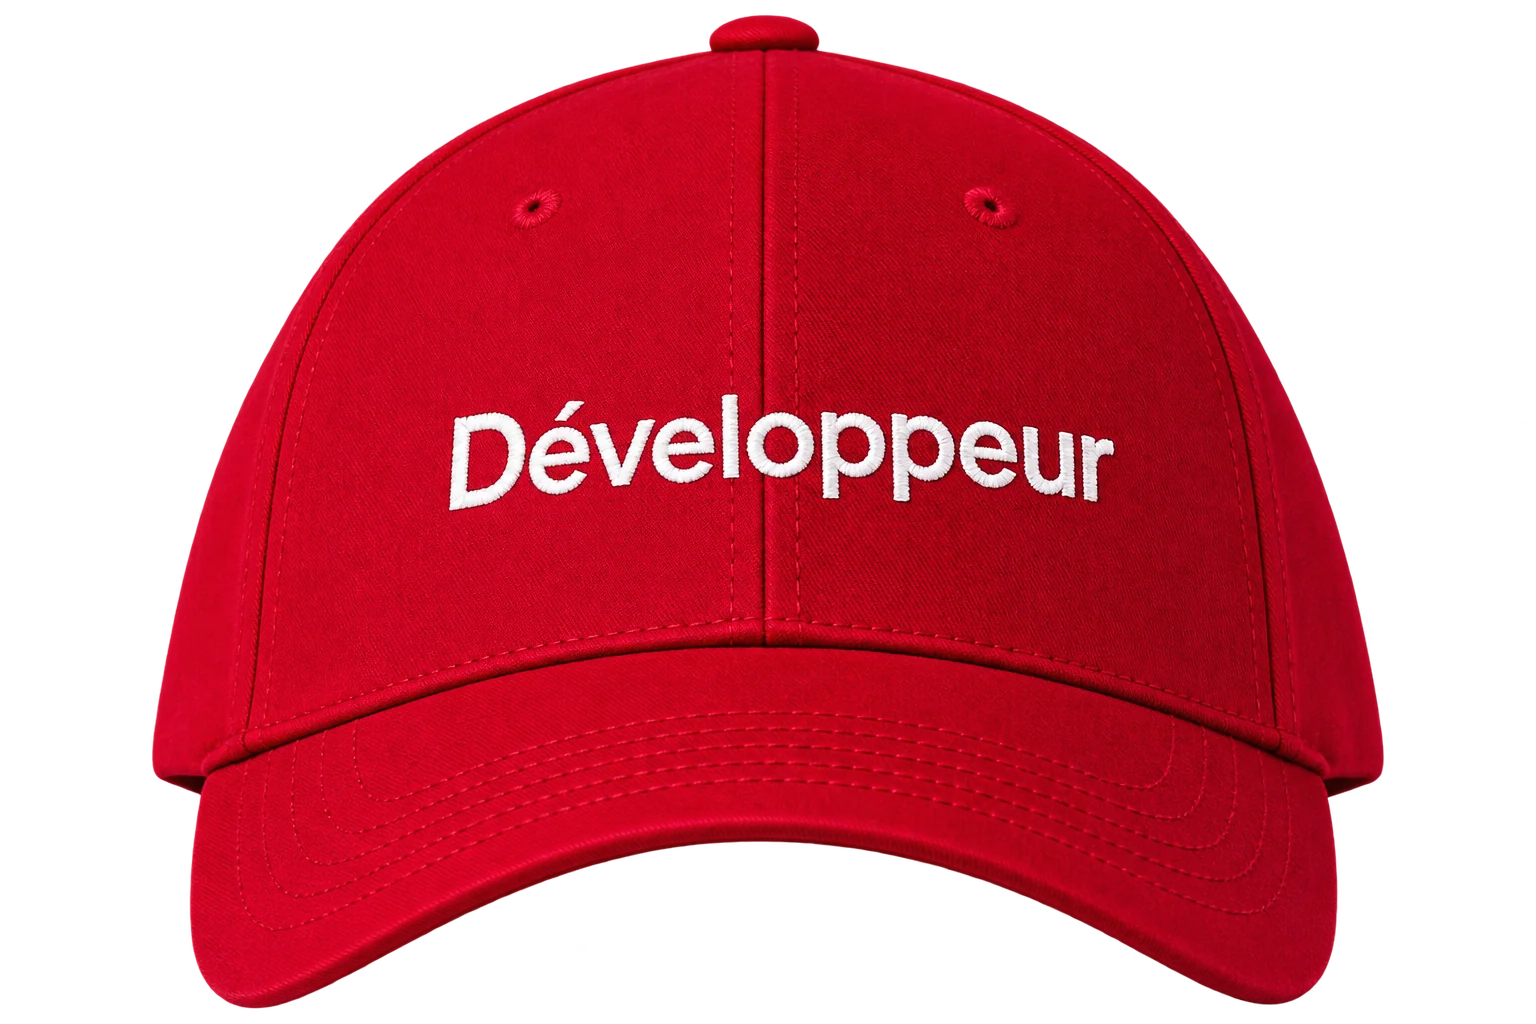
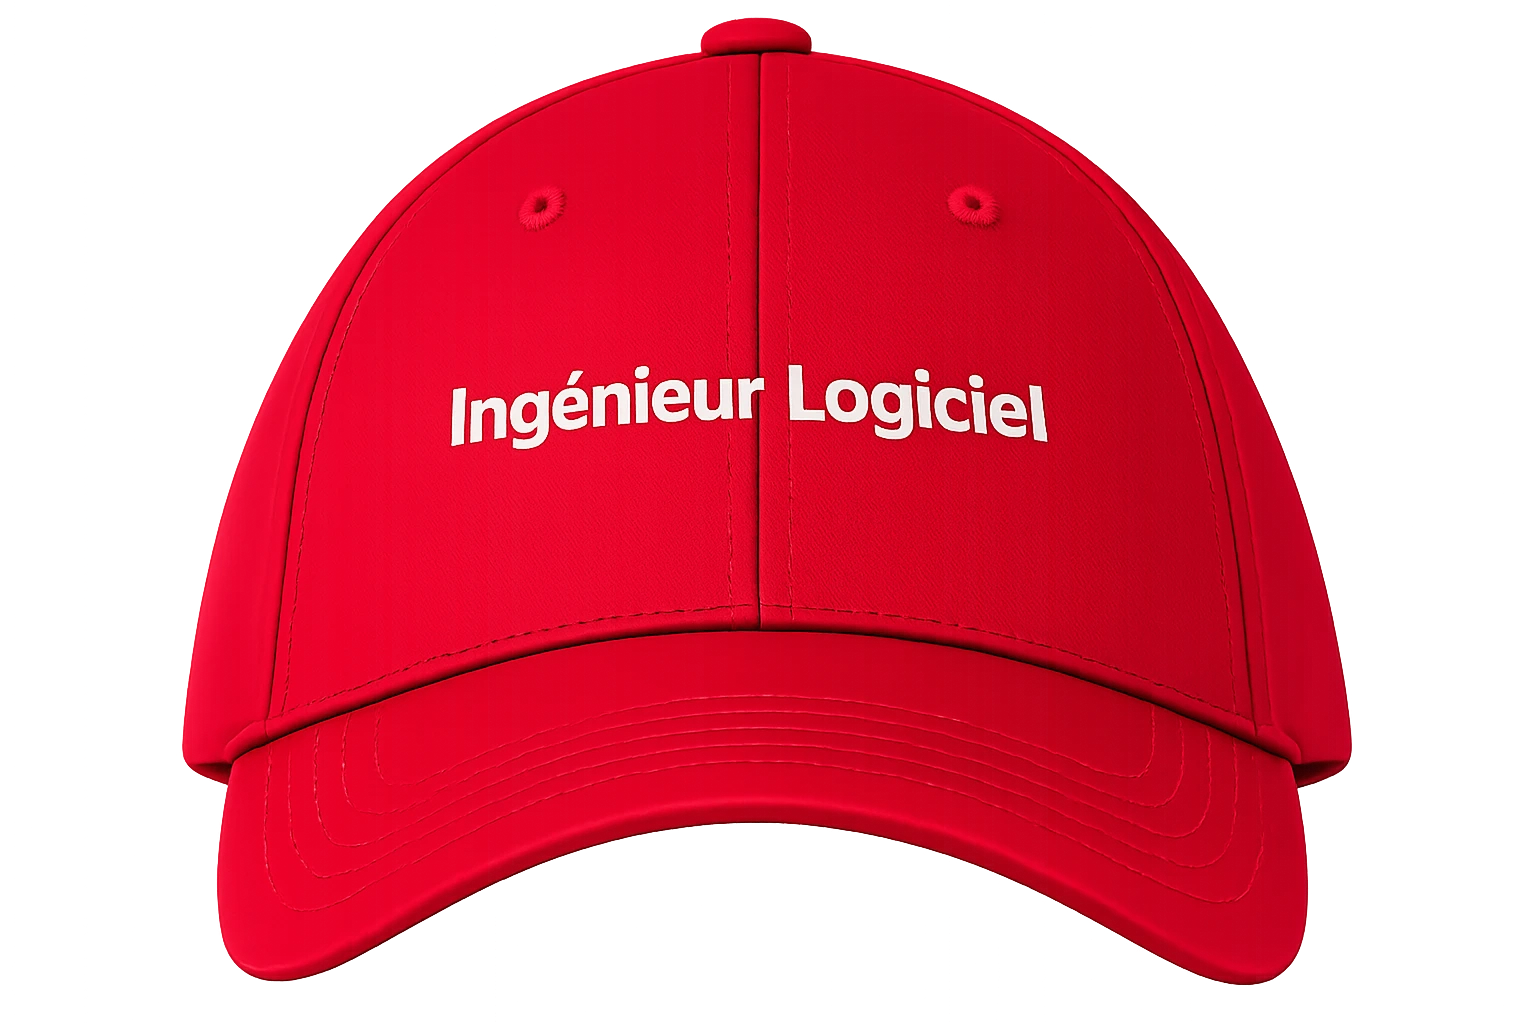
fix: re-encode the hero portraits at quality 92, wire the language caps
The cap embroidery was mushy in the hero. That was my compression, not the
sources: quality 82 took 1.7 MB PNGs down to ~47 KB, a 36x reduction, and fine
embroidery is the first detail such a ratio destroys. Re-encoded at 92, the five
portraits land at 94-108 KB, still an order of magnitude under the PNGs. The
source for the English data portrait was recovered from git, having been deleted
once converted.

The agro French portrait is untouched: it predates this session and has no PNG
source, so it stays at its original 42 KB.

The three remaining caps go in, plus the English data cap re-encoded from the
2.4 MB PNG it replaces. Each language now gets its own cap in the rotation.

A correction worth recording: I twice reported these caps as having a coloured
halo baked onto a dark background and asked for them to be regenerated. They
never did. All four measure 44-50% transparent pixels -- they were properly cut
out from the start. The image viewer I read them through flattens transparency
onto a dark ground, which turns a feathered cutout edge into what looks like a
glow. Trust the alpha channel, not the preview.

diff --git a/app/globals.css b/app/globals.css
@@ -1245,7 +1245,7 @@ a.project-tile:hover .project-art > span { transform: scale(1.08) rotate(-3deg);
 .cv-heading h2 { color: #f8f5ed; }
 .cv-heading .eyebrow { color: rgba(255, 255, 255, 0.48); }
 .cv-grid { display: grid; grid-template-columns: repeat(3, 1fr); border-top: 1px solid var(--line-dark); border-left: 1px solid var(--line-dark); }
-.cv-card { position: relative; min-height: 390px; padding: 30px; border-right: 1px solid var(--line-dark); border-bottom: 1px solid var(--line-dark); }
+.cv-card { position: relative; display: flex; flex-direction: column; min-height: 390px; padding: 30px; border-right: 1px solid var(--line-dark); border-bottom: 1px solid var(--line-dark); }
 .cv-card::after { position: absolute; right: 0; bottom: 0; width: 0; height: 3px; content: ""; background: var(--gold-bright); transition: width 350ms ease; }
 .cv-card:hover::after { width: 100%; }
 .cv-number { color: rgba(255, 255, 255, 0.58); font-size: 10px; letter-spacing: .15em; }
@@ -1255,8 +1255,6 @@ a.project-tile:hover .project-art > span { transform: scale(1.08) rotate(-3deg);
 .cv-card > p { margin: 0; }
 .cv-card .cv-subtitle { color: var(--gold-bright); font-size: 10px; font-weight: 700; letter-spacing: 0.1em; text-transform: uppercase; }
 .cv-card .cv-desc { margin-top: 14px; color: rgba(255, 255, 255, 0.55); font-size: 13px; line-height: 1.65; }
-.cv-actions a { display: inline-flex; align-items: center; gap: 7px; min-height: 36px; padding: 0 11px; border: 1px solid rgba(255,255,255,.18); font-size: 10px; font-weight: 700; }
-.cv-actions a:nth-child(2) { color: var(--ink); background: var(--gold-bright); border-color: var(--gold-bright); }
 .cv-actions svg { width: 13px; }
 .cv-note { margin: 0; color: rgba(255,255,255,.4); font-size: 11px; }
 .cv-section-footer { display: flex; align-items: center; justify-content: space-between; gap: 24px; margin-top: 24px; }
@@ -2289,11 +2287,14 @@ a.project-tile:hover .project-art > span { transform: scale(1.08) rotate(-3deg);
 .project-filters button:hover, .project-filters button.is-active { color: var(--ink); background: var(--gold-bright); border-color: var(--gold-bright); }
 .project-filters > span { margin-left: auto; color: rgba(255, 255, 255, 0.4); font-size: 9px; letter-spacing: 0.12em; text-transform: uppercase; }
 
-.cv-actions { display: grid; gap: 7px; margin-top: 28px; }
-.cv-actions > div { display: grid; grid-template-columns: 30px 1fr 1fr; gap: 6px; align-items: center; }
-.cv-actions strong { color: var(--gold-bright); font-size: 9px; letter-spacing: 0.1em; }
-.cv-actions a { display: inline-flex; align-items: center; justify-content: center; gap: 7px; min-height: 34px; padding: 0 9px; border: 1px solid rgba(255, 255, 255, 0.18); font-size: 9px; font-weight: 700; }
-.cv-actions > div a:last-child { color: var(--ink); background: var(--gold-bright); border-color: var(--gold-bright); }
+/* Colonne flex sur la carte + marge automatique ici : les boutons se posent
+   sur la meme ligne dans toutes les cartes, quelle que soit la longueur du
+   descriptif au-dessus. */
+.cv-actions { display: grid; grid-template-columns: 1fr 1fr; gap: 8px; margin-top: auto; padding-top: 28px; }
+.cv-actions a { display: inline-flex; align-items: center; justify-content: center; gap: 7px; min-height: 38px; padding: 0 10px; border: 1px solid rgba(255, 255, 255, 0.18); font-size: 10px; font-weight: 700; transition: border-color 200ms ease, background 200ms ease, color 200ms ease; }
+.cv-actions a:hover { border-color: var(--gold-bright); }
+.cv-actions a:last-child { color: var(--ink); background: var(--gold-bright); border-color: var(--gold-bright); }
+.cv-actions a:last-child:hover { background: #fff3ce; }
 .cv-actions svg { width: 13px; }
 
 .site-footer > nav { display: flex; flex-wrap: wrap; justify-content: center; gap: 22px; margin: 38px 0 0; color: rgba(255, 255, 255, 0.55); font-size: 9px; font-weight: 700; letter-spacing: 0.12em; text-transform: uppercase; }

diff --git a/components/CvSection.jsx b/components/CvSection.jsx
@@ -35,16 +35,12 @@ export default function CvSection({ locale = "fr" }) {
               <p className="cv-subtitle">{subtitle}</p>
               <p className="cv-desc">{description}</p>
               <div className="cv-actions">
-                <div>
-                  <strong>FR</strong>
-                  <a href={cv.fr} target="_blank" rel="noreferrer"><Eye aria-hidden="true" /> {isEn ? "View" : "Voir"}</a>
-                  <a href={cv.fr} download><Download aria-hidden="true" /> PDF</a>
-                </div>
-                <div>
-                  <strong>EN</strong>
-                  <a href={cv.en} target="_blank" rel="noreferrer"><Eye aria-hidden="true" /> {isEn ? "View" : "Voir"}</a>
-                  <a href={cv.en} download><Download aria-hidden="true" /> PDF</a>
-                </div>
+                <a href={isEn ? cv.en : cv.fr} target="_blank" rel="noreferrer">
+                  <Eye aria-hidden="true" /> {isEn ? "View" : "Voir"}
+                </a>
+                <a href={isEn ? cv.en : cv.fr} download>
+                  <Download aria-hidden="true" /> {isEn ? "Download" : "Télécharger"}
+                </a>
               </div>
             </article>
           );

diff --git a/components/CapRotationStory.jsx b/components/CapRotationStory.jsx
@@ -5,14 +5,14 @@ import { useEffect, useRef } from "react";
 
 const capFramesFR = [
   { key: "agro-front", src: "/media/caps-rotation/cap-agro-front.webp", label: "Agroéconomie" },
-  { key: "data-eng-front", src: "/media/caps-rotation/cap-data-engineer.png", label: "Ingénieur Data" },
+  { key: "data-eng-front", src: "/media/caps-rotation/cap-data-front.webp", label: "Ingénieur Data" },
   { key: "dev-front", src: "/media/caps-rotation/cap-dev-front.webp", label: "Ingénieur Logiciel" },
 ];
 
 const capFramesEN = [
   { key: "agro-front", src: "/media/caps-rotation/cap-agro-front-en.webp", label: "Agroeconomics" },
-  { key: "data-eng-front", src: "/media/caps-rotation/cap-data-engineer.png", label: "Data Engineer" },
-  { key: "dev-front", src: "/media/caps-rotation/cap-dev-front.webp", label: "Software Engineer" },
+  { key: "data-eng-front", src: "/media/caps-rotation/cap-data-front-en.webp", label: "Data Engineer" },
+  { key: "dev-front", src: "/media/caps-rotation/cap-dev-front-en.webp", label: "Software Engineer" },
 ];
 
 export default function CapRotationStory({ locale = "fr" }) {
